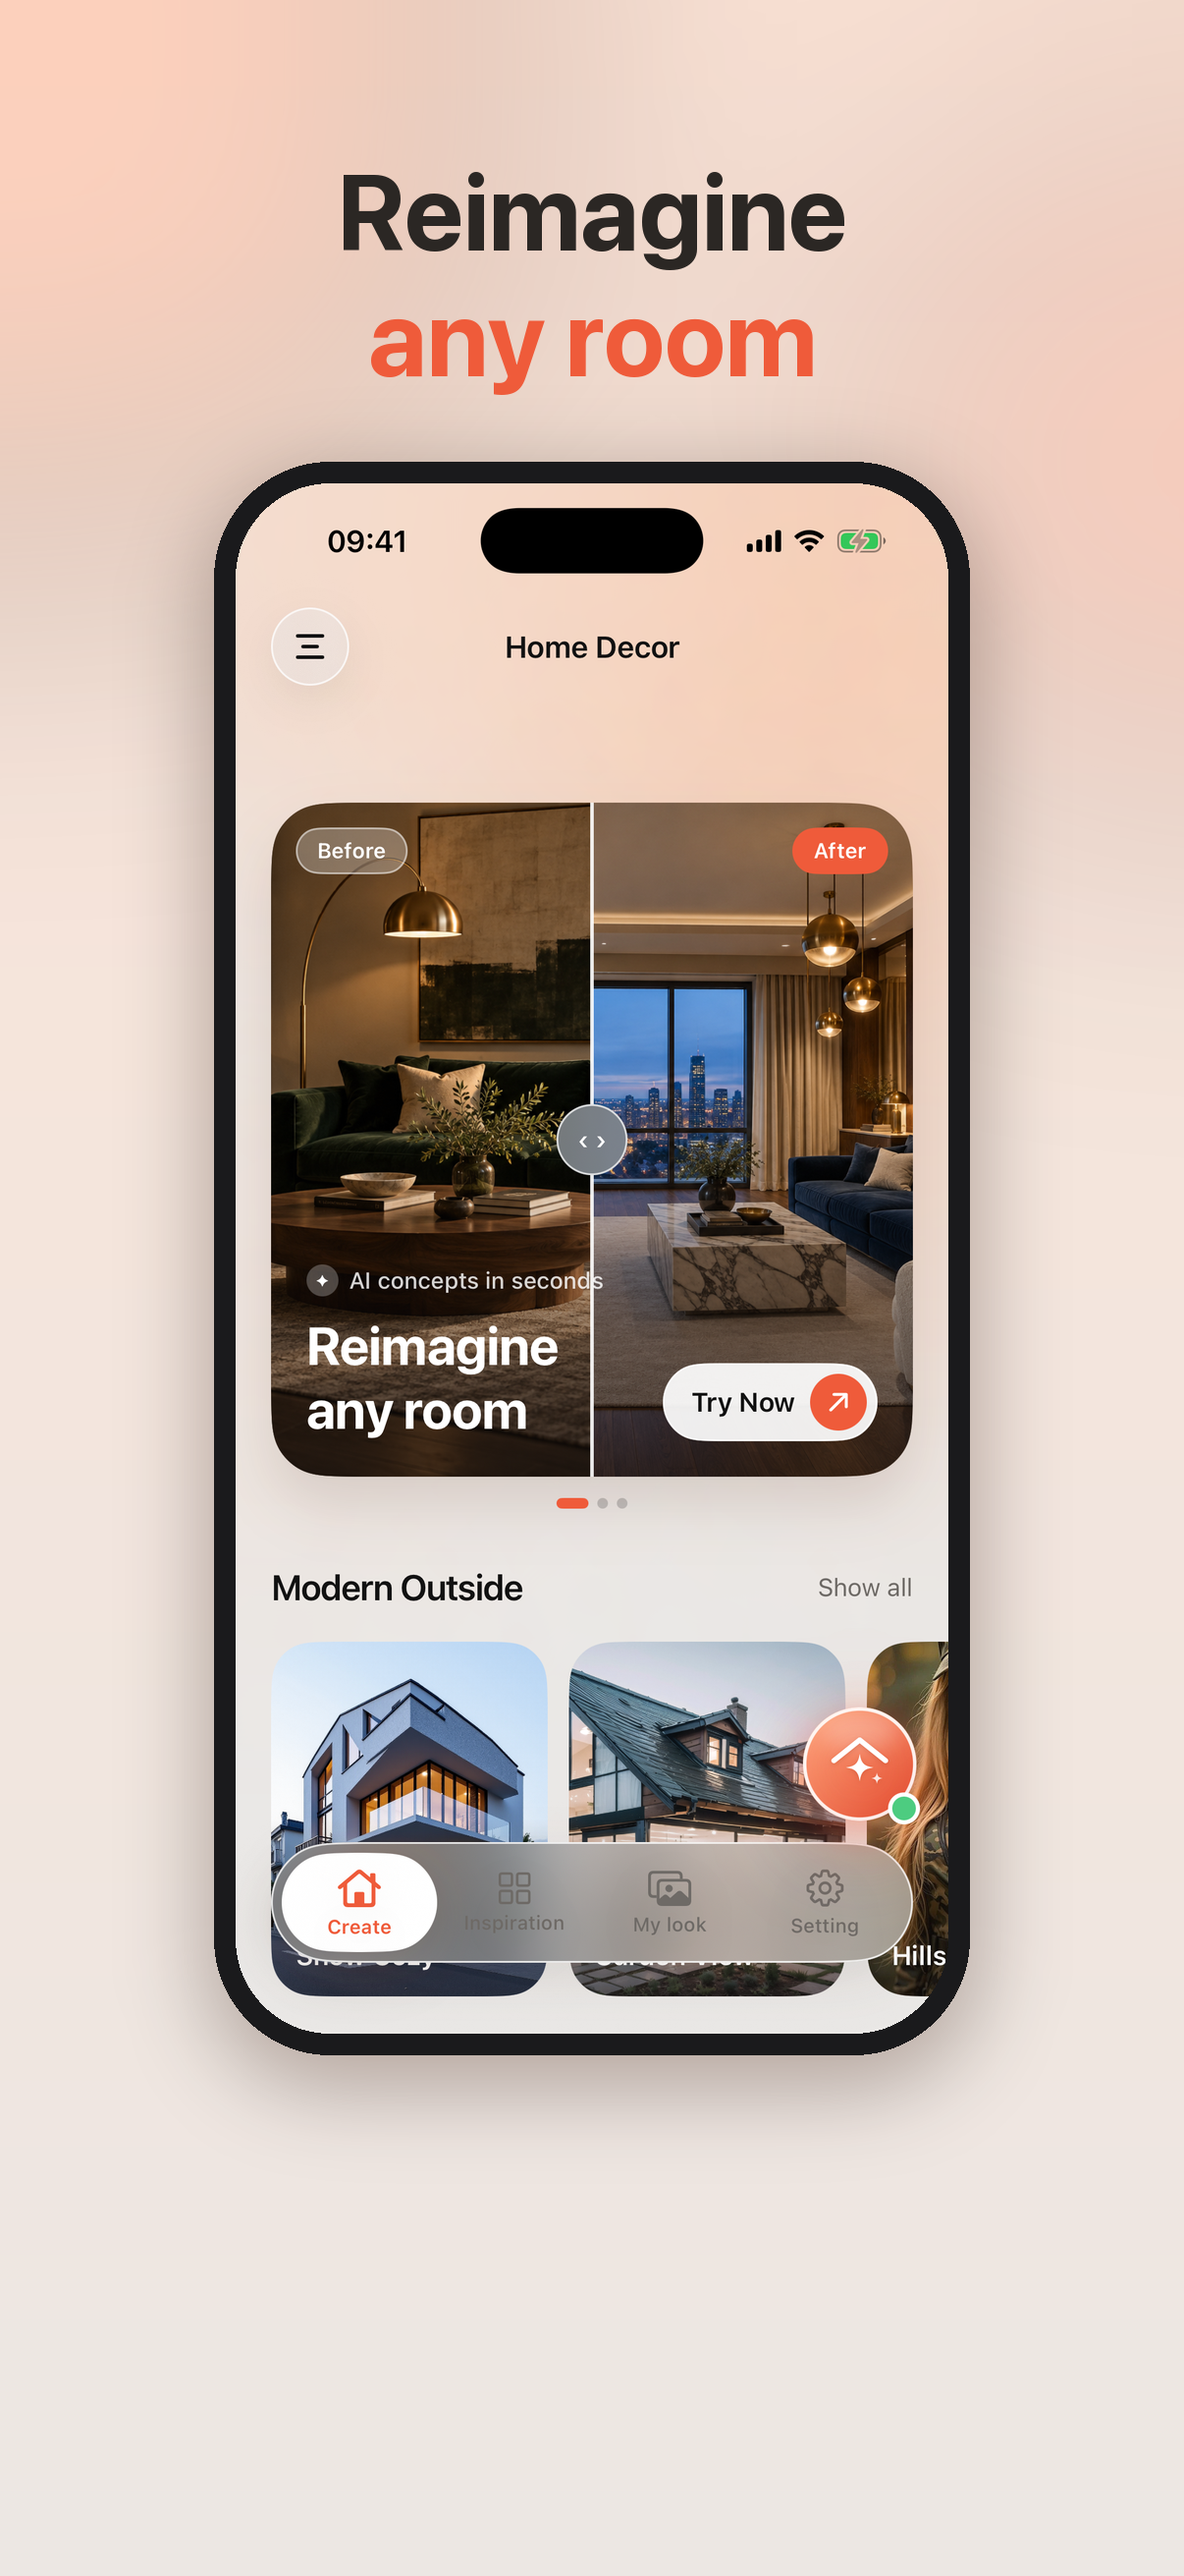
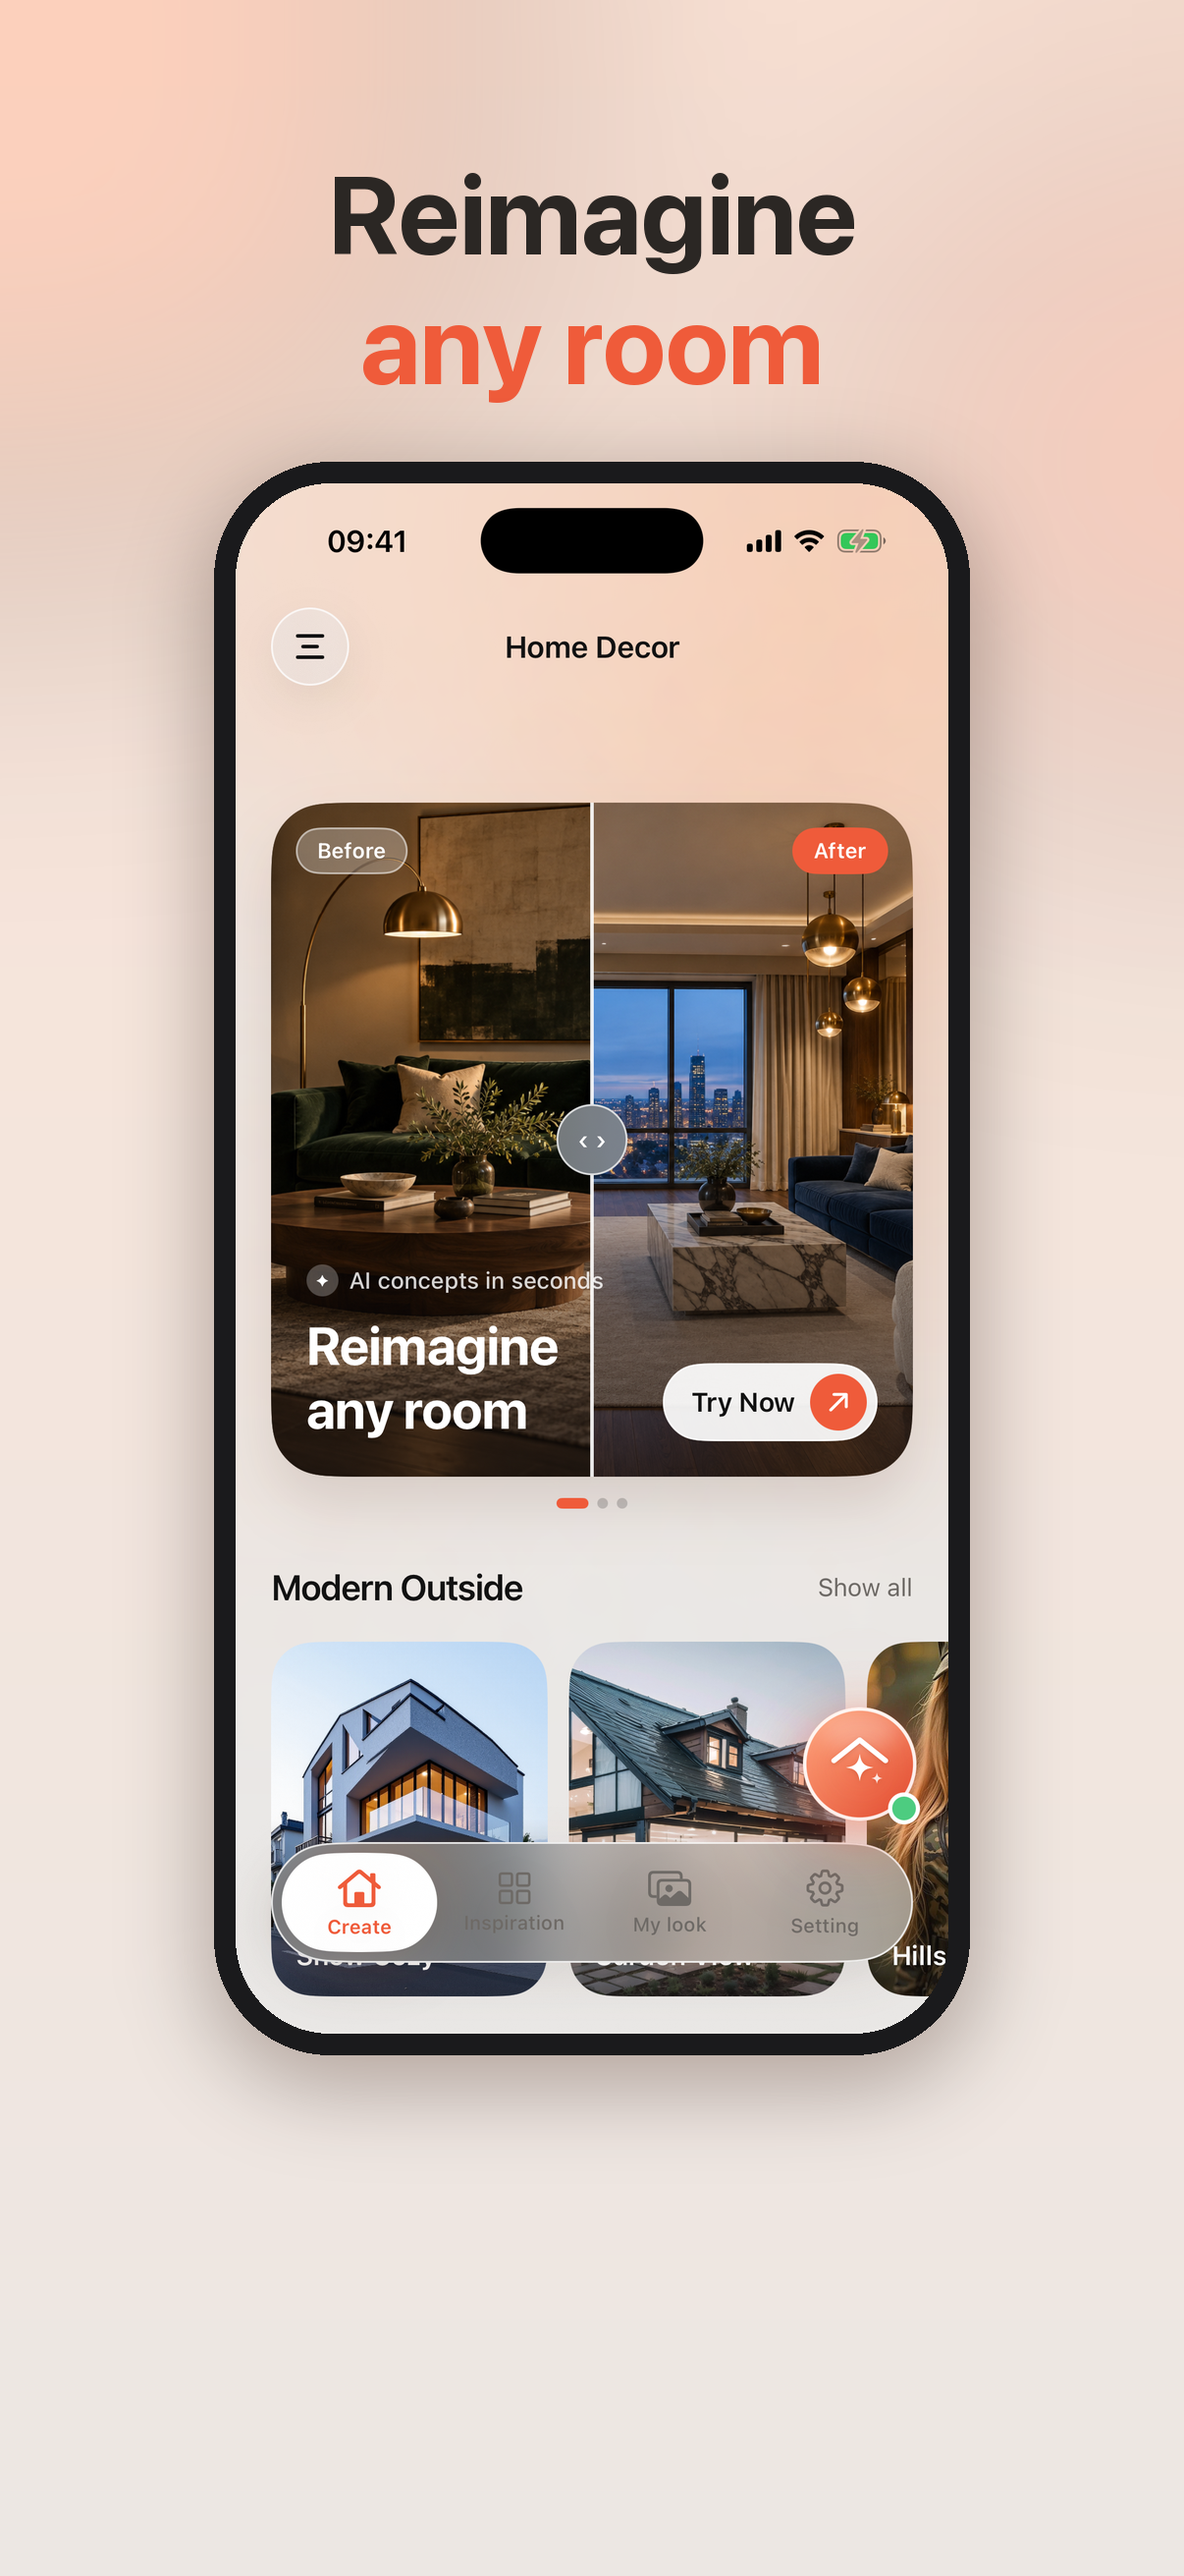
Screenshots: stronger 6-frame story (drop language, add flow shots)
Replace the weak Language-list and camo-grid frames with screens that tell
the core story and sell the app:
- 02_yourroom (Upload Photo with a room loaded) — "Start with your own room"
- 03_pickstyle (Choose Style: room type + style grid) — "Pick any style"
- 04_beforeafter (Your Design before/after slider) — "See it before & after" ⭐
Keep 01_reimagine (Home), 05_aidesigner (chat), 06_styles (style detail).

- make_screenshots.py: auto-fit headline (fit_font) so long lines never clip;
  FRAMES updated; shots/ gains upload/choosestyle/result captures
- 04_beforeafter uses a MOCK result for now (noted in README) — recapture
  result.png once the real AI backend is wired

Changed region(s): [[0.4909, 0.0618, 0.7363, 0.1545], [0.3068, 0.1236, 0.4602, 0.1545], [0.2761, 0.0618, 0.4295, 0.0927]]

diff --git a/scripts/store/make_screenshots.py b/scripts/store/make_screenshots.py
@@ -72,13 +72,24 @@ def draw_centered(draw, text, font, y, fill):
     draw.text(((W - w) / 2, y), text, font=font, fill=fill)
 
 
+def fit_font(draw, lines, max_size=112, min_size=66, margin=130):
+    """Largest font (<= max_size) where every line fits within W - margin."""
+    size = max_size
+    while size > min_size:
+        f = load_font(size)
+        if all(draw.textbbox((0, 0), ln, font=f)[2] <= W - margin for ln in lines):
+            return f, size
+        size -= 2
+    return load_font(min_size), min_size
+
+
 def render(shot_name, line1, line2, out_name):
     canvas = background()
     draw = ImageDraw.Draw(canvas)
 
-    # Headline (two lines, two-tone).
-    font = load_font(108)
-    lh = 128
+    # Headline (two lines, two-tone) — auto-fit so long lines never clip.
+    font, size = fit_font(draw, [line1, line2])
+    lh = round(size * 1.18)
     top = 150
     draw_centered(draw, line1, font, top, INK)
     draw_centered(draw, line2, font, top + lh, CORAL)
@@ -118,11 +129,12 @@ def render(shot_name, line1, line2, out_name):
 
 
 FRAMES = [
-    ("home.png",     "Reimagine",      "any room",      "01_reimagine.png"),
-    ("chat.png",     "Your own",       "AI Designer",   "02_aidesigner.png"),
-    ("category.png", "A look for",      "every space",   "03_styles.png"),
-    ("detail.png",   "Try any style",  "in seconds",    "04_tryit.png"),
-    ("language.png", "Private —",       "16 languages",  "05_languages.png"),
+    ("home.png",        "Reimagine",   "any room",        "01_reimagine.png"),
+    ("upload.png",      "Start with",  "your own room",   "02_yourroom.png"),
+    ("choosestyle.png", "Pick any",    "style",           "03_pickstyle.png"),
+    ("result.png",      "See it",      "before & after",  "04_beforeafter.png"),
+    ("chat.png",        "Your own",    "AI Designer",     "05_aidesigner.png"),
+    ("detail.png",      "A look for",  "every space",     "06_styles.png"),
 ]
 
 if __name__ == "__main__":

diff --git a/AppStore/screenshots/README.md b/AppStore/screenshots/README.md
@@ -5,30 +5,31 @@
 - `en/` — 5 ảnh **1206×2622** (ô "iPhone with Dynamic Island (medium display)").
 - `src-1290x2796/` — bản **1290×2796** (ô "iPhone 6.9" Display" nếu có).
 
-## Bộ 5 ảnh (thứ tự upload)
+## Bộ 6 ảnh (thứ tự upload) — kể trọn câu chuyện: ảnh phòng → chọn style → before/after
 
 | # | File | Headline | Màn app |
 |---|---|---|---|
-| 1 | `01_reimagine` | Reimagine **any room** | Home/Create (hero before/after) |
-| 2 | `02_aidesigner` | Your own **AI Designer** | Màn chat AI |
-| 3 | `03_styles` | A look for **every space** | Lưới style (See all) |
-| 4 | `04_tryit` | Try any style **in seconds** | Style detail |
-| 5 | `05_languages` | Private — **16 languages** | Màn chọn ngôn ngữ (cờ) |
+| 1 | `01_reimagine` | Reimagine **any room** | Home/Create (hero) |
+| 2 | `02_yourroom` | Start with **your own room** | Upload Photo (ảnh phòng đã chọn) |
+| 3 | `03_pickstyle` | Pick any **style** | Choose Style (room type + style) |
+| 4 | `04_beforeafter` | See it **before & after** | Your Design (slider so sánh) ⭐ |
+| 5 | `05_aidesigner` | Your own **AI Designer** | Màn chat AI |
+| 6 | `06_styles` | A look for **every space** | Style detail |
 
 ## Tạo lại
 
-Ảnh được **compose bằng script** (Pillow), không dựng tay:
+Ảnh được **compose bằng script** (Pillow), không dựng tay. Headline tự co (`fit_font`) nên không bị cắt:
 
-1. Chụp lại màn app thật (English) vào `scripts/store/shots/`:
+1. Chụp lại màn app thật (English) vào `scripts/store/shots/` — các tên cần: `home.png`, `upload.png`, `choosestyle.png`, `result.png`, `chat.png`, `detail.png`:
    ```bash
    xcrun simctl io "iPhone 17 Pro" screenshot scripts/store/shots/home.png
    ```
-   (các tên cần: `home.png`, `chat.png`, `category.png`, `detail.png`, `language.png`)
+   (Để có màn `upload/choosestyle/result`: nạp 1 ảnh phòng vào sim bằng `xcrun simctl addmedia "iPhone 17 Pro" <ảnh>` rồi đi flow Try Now → chọn ảnh → Generate.)
 2. Render:
    ```bash
    python3 scripts/store/make_screenshots.py
    ```
-   → ghi đè `en/` + `src-1290x2796/`. Sửa headline/thêm frame trong `FRAMES` của script.
+   → ghi đè `en/` + `src-1290x2796/`. Sửa headline/đổi frame trong `FRAMES`.
 
-> ⚠ Khi AI generate chạy thật (có creds Code12), nên chụp lại 1 màn **kết quả generate thật** (before/after result) rồi thêm 1 frame cho nó.
+> ⚠ `04_beforeafter` hiện dùng kết quả MOCK (ảnh "after" chưa đúng vì AI chưa wire). Khi có creds Code12 và AI chạy thật, **chụp lại `result.png`** rồi render lại để ảnh store khớp app.
 > App chỉ iPhone (`TARGETED_DEVICE_FAMILY="1"`) → không cần ảnh iPad.

diff --git a/AppStore/metadata.md b/AppStore/metadata.md
@@ -120,7 +120,7 @@ First release of Abodi.
 - Icon app: `AppStore/AppIcon-1024.png`, 1024×1024, không nền trong suốt, không bo góc (Apple tự bo). App Store lấy icon từ bản build nên **không cần tải file này lên** — để lưu trữ/gửi designer.
 - Ảnh chụp: ✅ **ảnh MARKETING** (nền Coral-Glass + headline 2 màu + mockup điện thoại chứa UI thật) — 5 ảnh **1206×2622** ở `AppStore/screenshots/en/` (+ bản 1290×2796 ở `src-1290x2796/`). Tạo bằng `python3 scripts/store/make_screenshots.py` (xem `screenshots/README.md`).
 - **Size:** ô "iPhone with Dynamic Island (medium display)" nhận **1206×2622**; ô "iPhone 6.9" Display" nhận **1290×2796**.
-- 5 ảnh (thứ tự upload): `01_reimagine` (Reimagine any room), `02_aidesigner` (Your own AI Designer), `03_styles` (A look for every space), `04_tryit` (Try any style in seconds), `05_languages` (Private — 16 languages).
+- 6 ảnh (thứ tự upload, kể trọn flow): `01_reimagine` (Reimagine any room), `02_yourroom` (Start with your own room), `03_pickstyle` (Pick any style), `04_beforeafter` (See it before & after — ⭐ slider), `05_aidesigner` (Your own AI Designer), `06_styles` (A look for every space).
 - App **chỉ iPhone** (`TARGETED_DEVICE_FAMILY = "1"`) → không cần ảnh iPad. Tối đa 10 ảnh/slot.
 - ⚠ Khi AI wire thật, chụp lại màn **kết quả generate thật** rồi thêm 1 frame.
 
